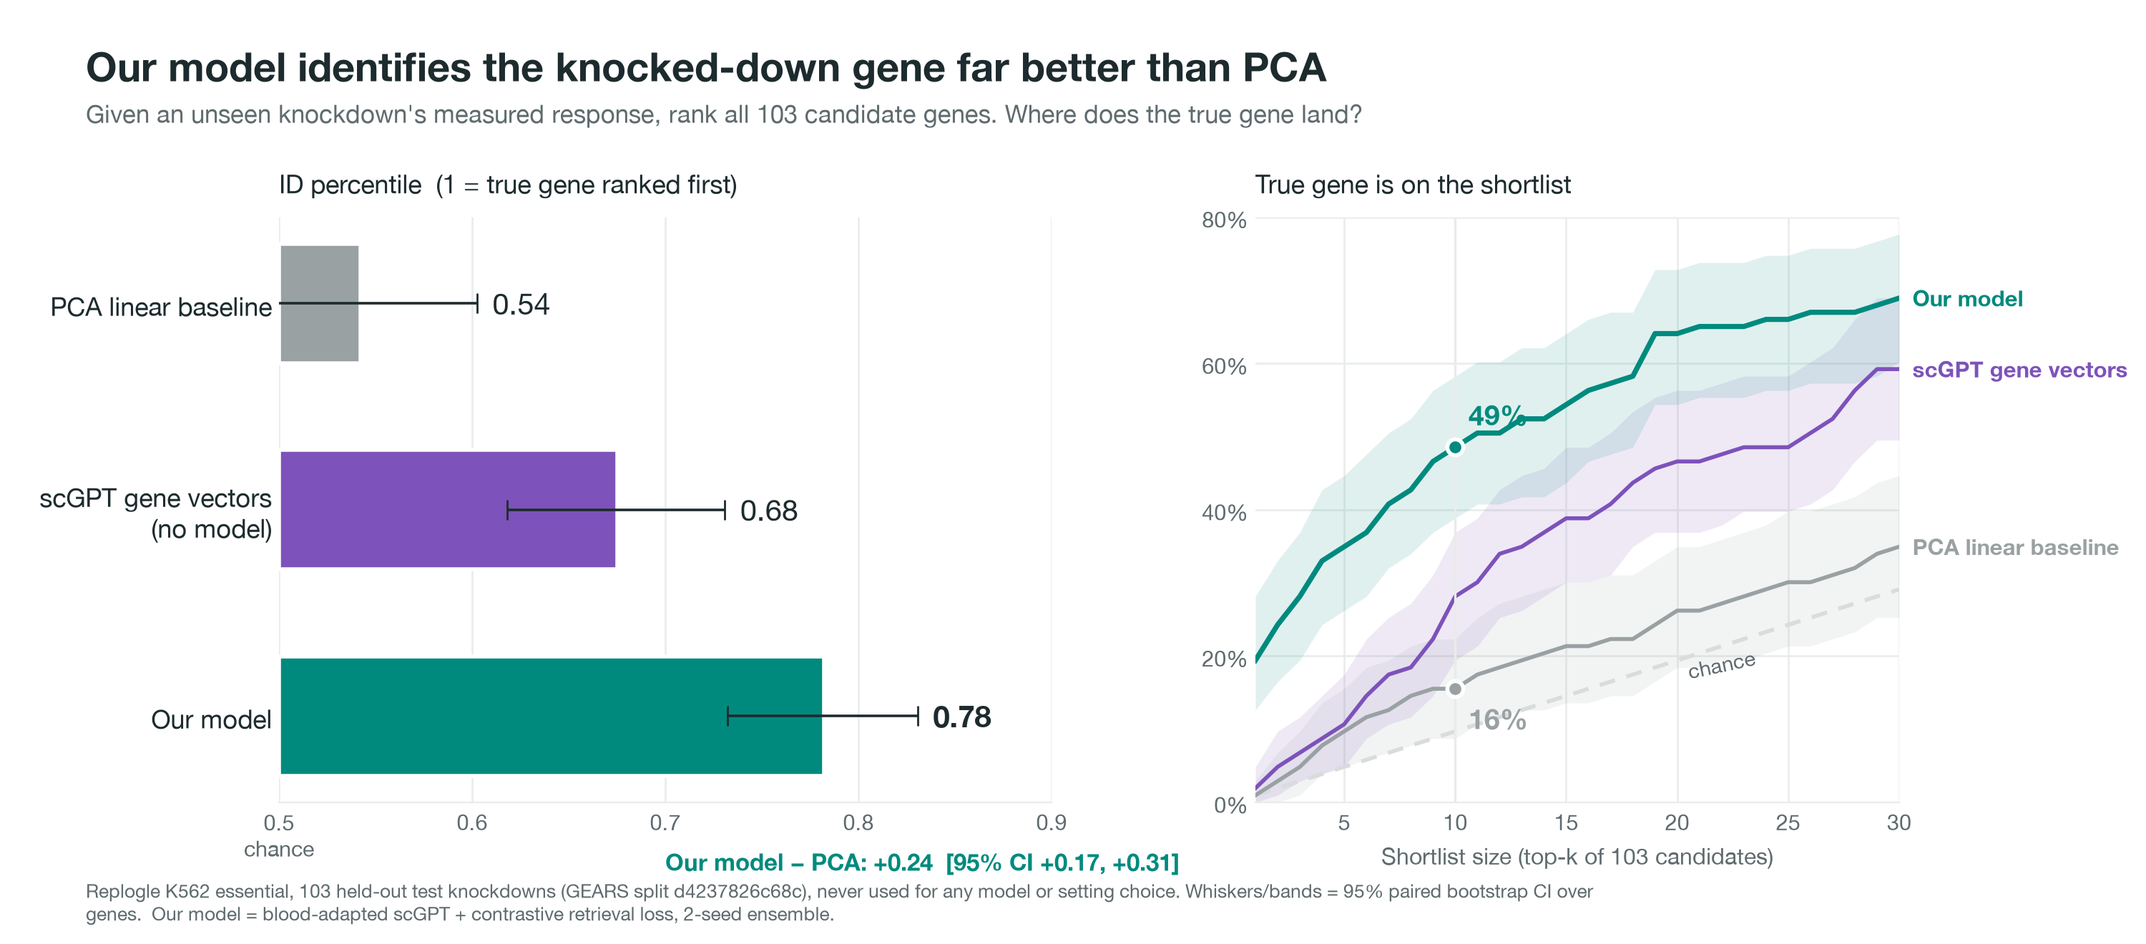
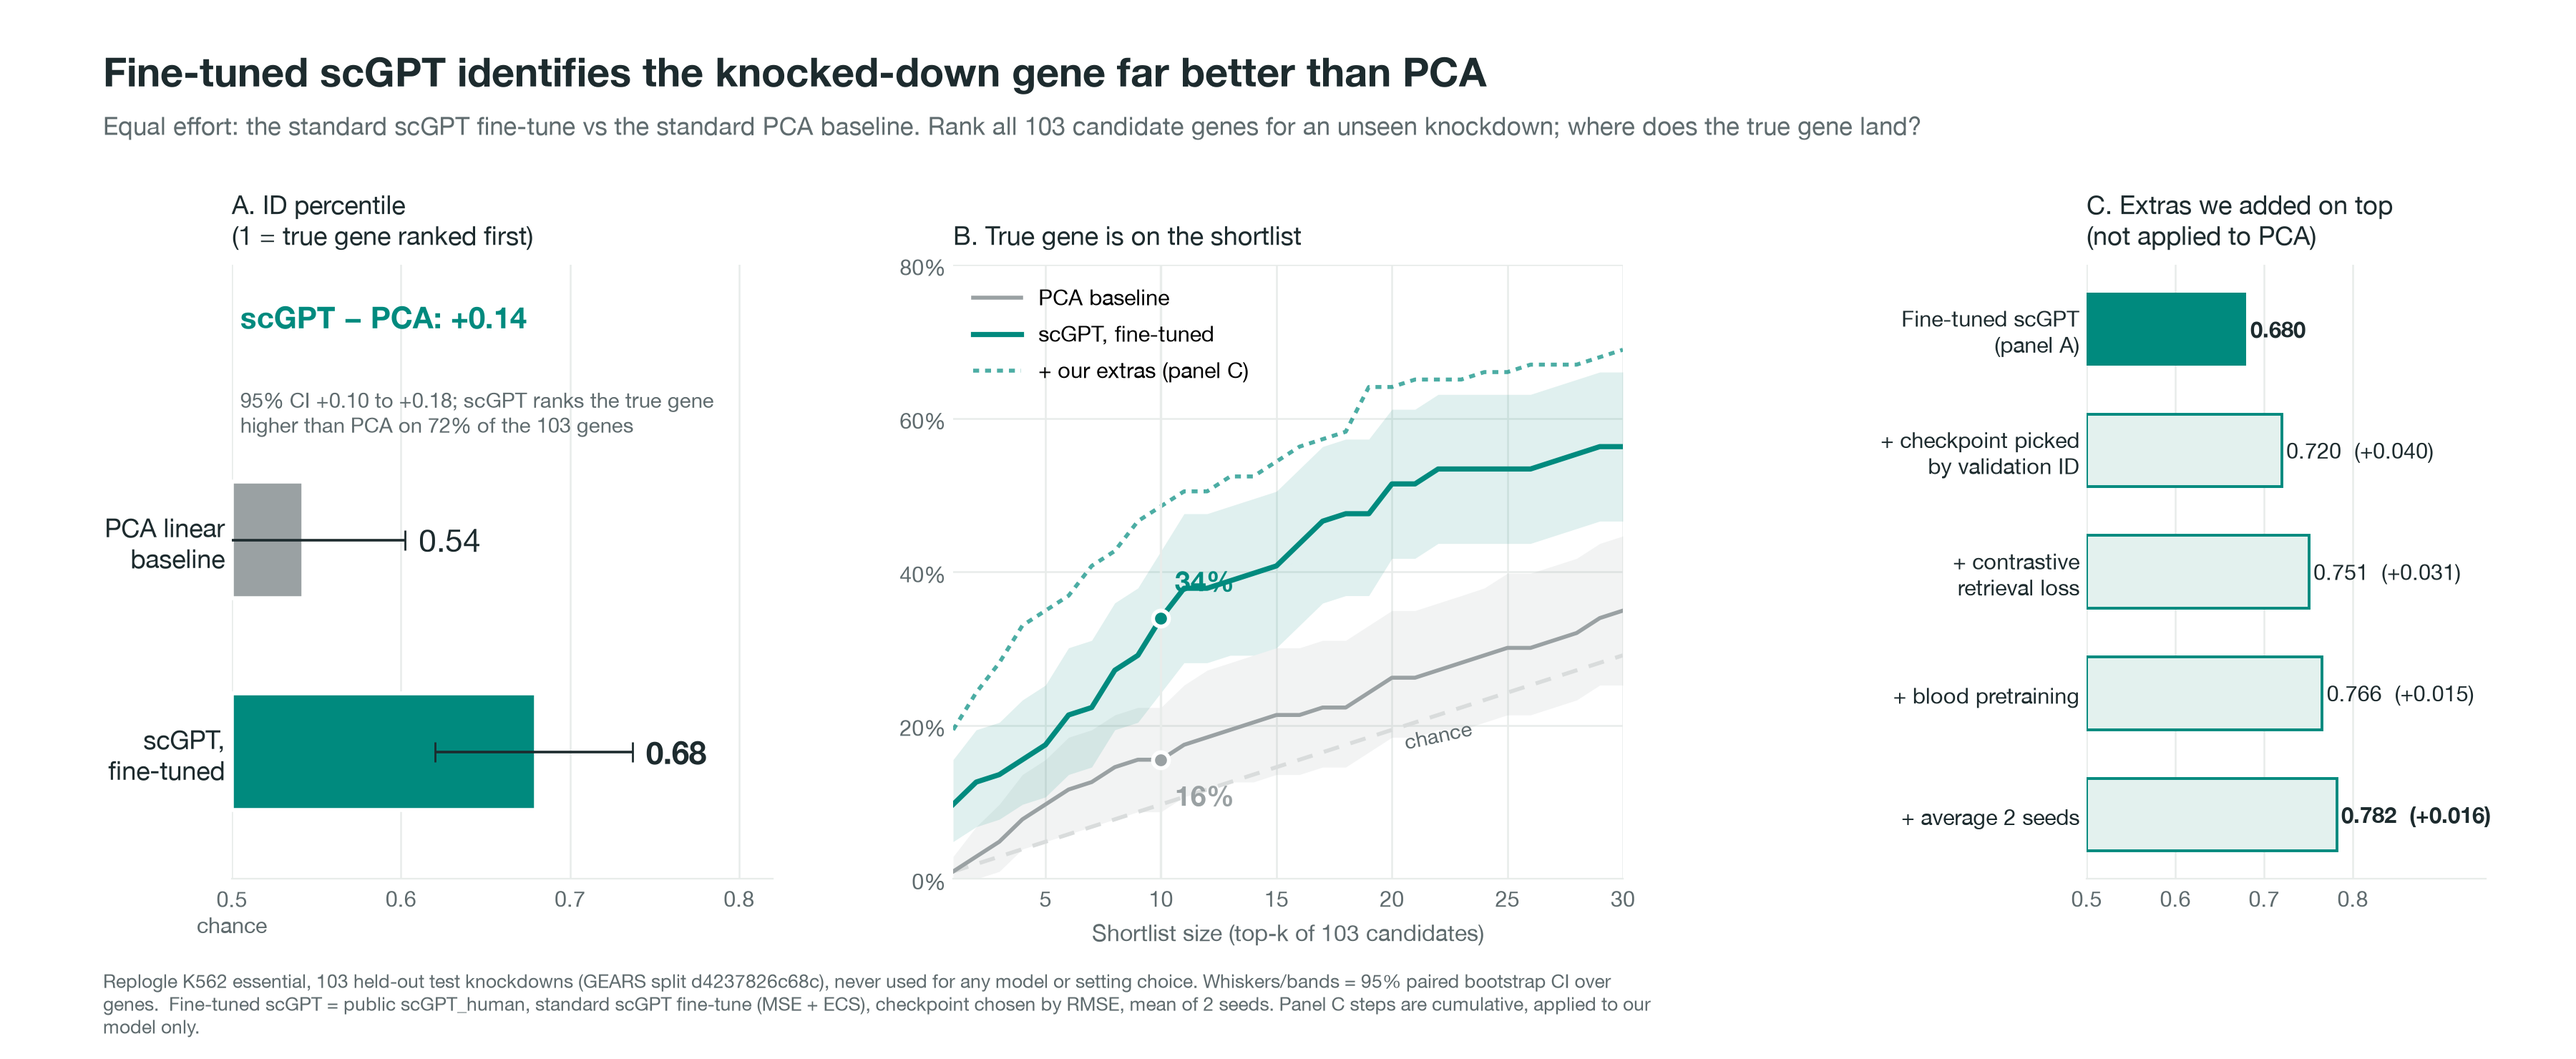
Fig 1: equal-effort comparison (plain fine-tuned scGPT vs PCA), extras shown separately

diff --git a/diag/make_figures.py b/diag/make_figures.py
@@ -67,56 +67,91 @@ FOOT = ("Replogle K562 essential, 103 held-out test knockdowns (GEARS split d423
         "model or setting choice. Whiskers/bands = 95% paired bootstrap CI over genes.")
 
 # =============================================================================== Fig 1
-models = [("PCA linear baseline", "baselines/linear", GRAY),
-          ("scGPT gene vectors\n(no model)", "baselines/ridge_scgpt_gene_emb", PURPLE),
-          ("Our model", BEST, TEAL)]
-fig = plt.figure(figsize=(15, 6.6), facecolor=BG)
-title(fig, "Our model identifies the knocked-down gene far better than PCA",
-      "Given an unseen knockdown's measured response, rank all 103 candidate genes. Where does the true gene land?")
-axA = fig.add_axes([0.13, 0.15, 0.36, 0.62])
-axB = fig.add_axes([0.585, 0.15, 0.3, 0.62])
+# Equal effort: PCA linear baseline vs PLAIN fine-tuned public scGPT (A22: standard scGPT recipe, log1p, checkpoint
+# chosen by delta RMSE, no retrieval loss, no ensemble, no identification tuning). Our extras shown separately.
+PLAIN = "scgpt_paper_public"
+fig = plt.figure(figsize=(18, 7.4), facecolor=BG)
+title(fig, "Fine-tuned scGPT identifies the knocked-down gene far better than PCA",
+      "Equal effort: the standard scGPT fine-tune vs the standard PCA baseline. Rank all 103 candidate genes for an "
+      "unseen knockdown; where does the true gene land?")
+axA = fig.add_axes([0.09, 0.17, 0.21, 0.58])
+axB = fig.add_axes([0.37, 0.17, 0.26, 0.58])
+axC = fig.add_axes([0.81, 0.17, 0.155, 0.58])
 
+# --- A: equal-effort bars
 style(axA)
-ys = np.arange(len(models))[::-1]
-for y, (lab, arm, col) in zip(ys, models):
+pair = [("PCA linear\nbaseline", "baselines/linear", GRAY), ("scGPT,\nfine-tuned", PLAIN, TEAL)]
+ys = np.array([1, 0])
+for y, (lab, arm, col) in zip(ys, pair):
     m, lo, hi = ci_mean(pg(arm))
-    axA.barh(y, m - 0.5, left=0.5, height=0.58, color=col, edgecolor=BG, lw=2)
+    axA.barh(y, m - 0.5, left=0.5, height=0.55, color=col, edgecolor=BG, lw=2)
     axA.errorbar(m, y, xerr=[[m - lo], [hi - m]], fmt="none", ecolor=INK, elinewidth=1.3, capsize=5)
-    axA.text(hi + 0.008, y, f"{m:.2f}", va="center", fontsize=15, fontweight="bold" if col == TEAL else "normal",
-             color=INK)
+    axA.text(hi + 0.008, y, f"{m:.2f}", va="center", fontsize=16, color=INK,
+             fontweight="bold" if col == TEAL else "normal")
 axA.set_yticks(ys)
-axA.set_yticklabels([m[0] for m in models], fontsize=13, color=INK)
-axA.set_xlim(0.5, 0.9)
-axA.set_xticks([0.5, 0.6, 0.7, 0.8, 0.9])
-axA.set_xticklabels(["0.5\nchance", "0.6", "0.7", "0.8", "0.9"])
-axA.set_title("ID percentile  (1 = true gene ranked first)", fontsize=13, color=INK, loc="left", pad=12)
-d, lo, hi = ci_mean(pg(BEST) - pg("baselines/linear"))
-axA.text(0.5, -0.75, f"Our model − PCA: +{d:.2f}  [95% CI +{lo:.2f}, +{hi:.2f}]", fontsize=12, color=TEAL,
-         fontweight="bold", transform=axA.get_yaxis_transform())
+axA.set_yticklabels([p_[0] for p_ in pair], fontsize=13, color=INK)
+axA.set_xlim(0.5, 0.82)
+axA.set_ylim(-0.6, 2.3)
+axA.set_xticks([0.5, 0.6, 0.7, 0.8])
+axA.set_xticklabels(["0.5\nchance", "0.6", "0.7", "0.8"])
+axA.set_title("A. ID percentile\n(1 = true gene ranked first)", fontsize=13, color=INK, loc="left", pad=10)
+d, lo, hi = ci_mean(pg(PLAIN) - pg("baselines/linear"))
+axA.text(0.505, 2.0, f"scGPT − PCA: +{d:.2f}", fontsize=15, color=TEAL, fontweight="bold")
+axA.text(0.505, 1.72, f"95% CI +{lo:.2f} to +{hi:.2f}; scGPT ranks the true gene\nhigher than PCA on "
+         f"{np.mean(pg(PLAIN) > pg('baselines/linear')):.0%} of the 103 genes", fontsize=10.5, color=MUTED, va="top")
 
+# --- B: shortlist curve, equal effort (+ faint full model for reference)
 style(axB, "both")
 ks = np.arange(1, 31)
 axB.plot(ks, ks / N, color=GRAY_LIGHT, lw=2, ls=(0, (4, 3)))
 axB.text(22, 22 / N - 0.045, "chance", color=MUTED, fontsize=10.5, ha="center", rotation=12)
-for lab, arm, col in models:
+curves = {}
+for lab, arm, col, kw in (("PCA baseline", "baselines/linear", GRAY, {}),
+                          ("scGPT, fine-tuned", PLAIN, TEAL, {}),
+                          ("+ our extras (panel C)", BEST, TEAL, {"ls": (0, (1.5, 1.5)), "alpha": 0.7})):
     r = pg(arm, "id_rank")
     curve = np.array([(r <= k).mean() for k in ks])
-    band = np.array([[(r[i] <= k).mean() for k in ks] for i in IDX[:1000]])
-    axB.fill_between(ks, np.quantile(band, 0.025, 0), np.quantile(band, 0.975, 0), color=col, alpha=0.12, lw=0)
-    axB.plot(ks, curve, color=col, lw=2.6 if col == TEAL else 2)
-    axB.text(30.6, curve[-1], lab.split("\n")[0], color=col, fontsize=11, va="center", fontweight="bold")
-for arm, col in ((BEST, TEAL), ("baselines/linear", GRAY)):
-    v = (pg(arm, "id_rank") <= 10).mean()
+    curves[arm] = curve
+    if arm != BEST:
+        band = np.array([[(r[i] <= k).mean() for k in ks] for i in IDX[:1000]])
+        axB.fill_between(ks, np.quantile(band, 0.025, 0), np.quantile(band, 0.975, 0), color=col, alpha=0.12, lw=0)
+    axB.plot(ks, curve, color=col, lw=2.6 if arm == PLAIN else 2, **kw)
+    axB.lines[-1].set_label(lab)
+for arm, col, dy in ((PLAIN, TEAL, 0.035), ("baselines/linear", GRAY, -0.06)):
+    v = curves[arm][9]
     axB.plot([10], [v], "o", ms=8, color=col, mec=BG, mew=2, zorder=5)
-    axB.text(10.6, v + (0.03 if col == TEAL else -0.055), f"{v:.0%}", color=col, fontsize=14, fontweight="bold")
+    axB.text(10.6, v + dy, f"{v:.0%}", color=col, fontsize=14, fontweight="bold")
 axB.axvline(10, color=GRID, lw=1.2)
+axB.legend(loc="upper left", frameon=False, fontsize=11, handlelength=2.2)
 axB.set_xlim(1, 30)
 axB.set_ylim(0, 0.8)
 axB.set_yticks([0, 0.2, 0.4, 0.6, 0.8])
 axB.set_yticklabels(["0%", "20%", "40%", "60%", "80%"])
 axB.set_xlabel("Shortlist size (top-k of 103 candidates)", fontsize=11.5, color=MUTED)
-axB.set_title("True gene is on the shortlist", fontsize=13, color=INK, loc="left", pad=12)
-footer(fig, FOOT + "  Our model = blood-adapted scGPT + contrastive retrieval loss, 2-seed ensemble.")
+axB.set_title("B. True gene is on the shortlist", fontsize=13, color=INK, loc="left", pad=10)
+
+# --- C: what our extras add on top (applied only to our model, so shown separately)
+style(axC)
+extras = [("Fine-tuned scGPT\n(panel A)", PLAIN),
+          ("+ checkpoint picked\nby validation ID", "scgpt_paper_s2pub_r0"),
+          ("+ contrastive\nretrieval loss", "scgpt_paper_s2pub_r1"),
+          ("+ blood pretraining", "scgpt_paper_s2bscgpt_r1"),
+          ("+ average 2 seeds", BEST)]
+ev = [pg(a).mean() for _, a in extras]
+ycs = np.arange(len(extras))[::-1]
+for i, (y, (lab, arm)) in enumerate(zip(ycs, extras)):
+    col = TEAL if i == 0 else TEAL_TINT
+    axC.barh(y, ev[i] - 0.5, left=0.5, height=0.6, color=col, edgecolor=TEAL, lw=0 if i == 0 else 1.4)
+    txt = f"{ev[i]:.3f}" if i == 0 else f"{ev[i]:.3f}  ({ev[i] - ev[i - 1]:+.3f})"
+    axC.text(ev[i] + 0.005, y, txt, va="center", fontsize=11, color=INK, fontweight="bold" if i in (0, 4) else "normal")
+axC.set_yticks(ycs)
+axC.set_yticklabels([e[0] for e in extras], fontsize=11, color=INK)
+axC.set_xlim(0.5, 0.95)
+axC.set_xticks([0.5, 0.6, 0.7, 0.8])
+axC.set_xticklabels(["0.5", "0.6", "0.7", "0.8"])
+axC.set_title("C. Extras we added on top\n(not applied to PCA)", fontsize=13, color=INK, loc="left", pad=10)
+footer(fig, FOOT + "  Fine-tuned scGPT = public scGPT_human, standard scGPT fine-tune (MSE + ECS), checkpoint chosen "
+       "by RMSE, mean of 2 seeds. Panel C steps are cumulative, applied to our model only.")
 fig.savefig("diag/results/fig1_beat_pca.png", dpi=200)
 plt.close(fig)
 
